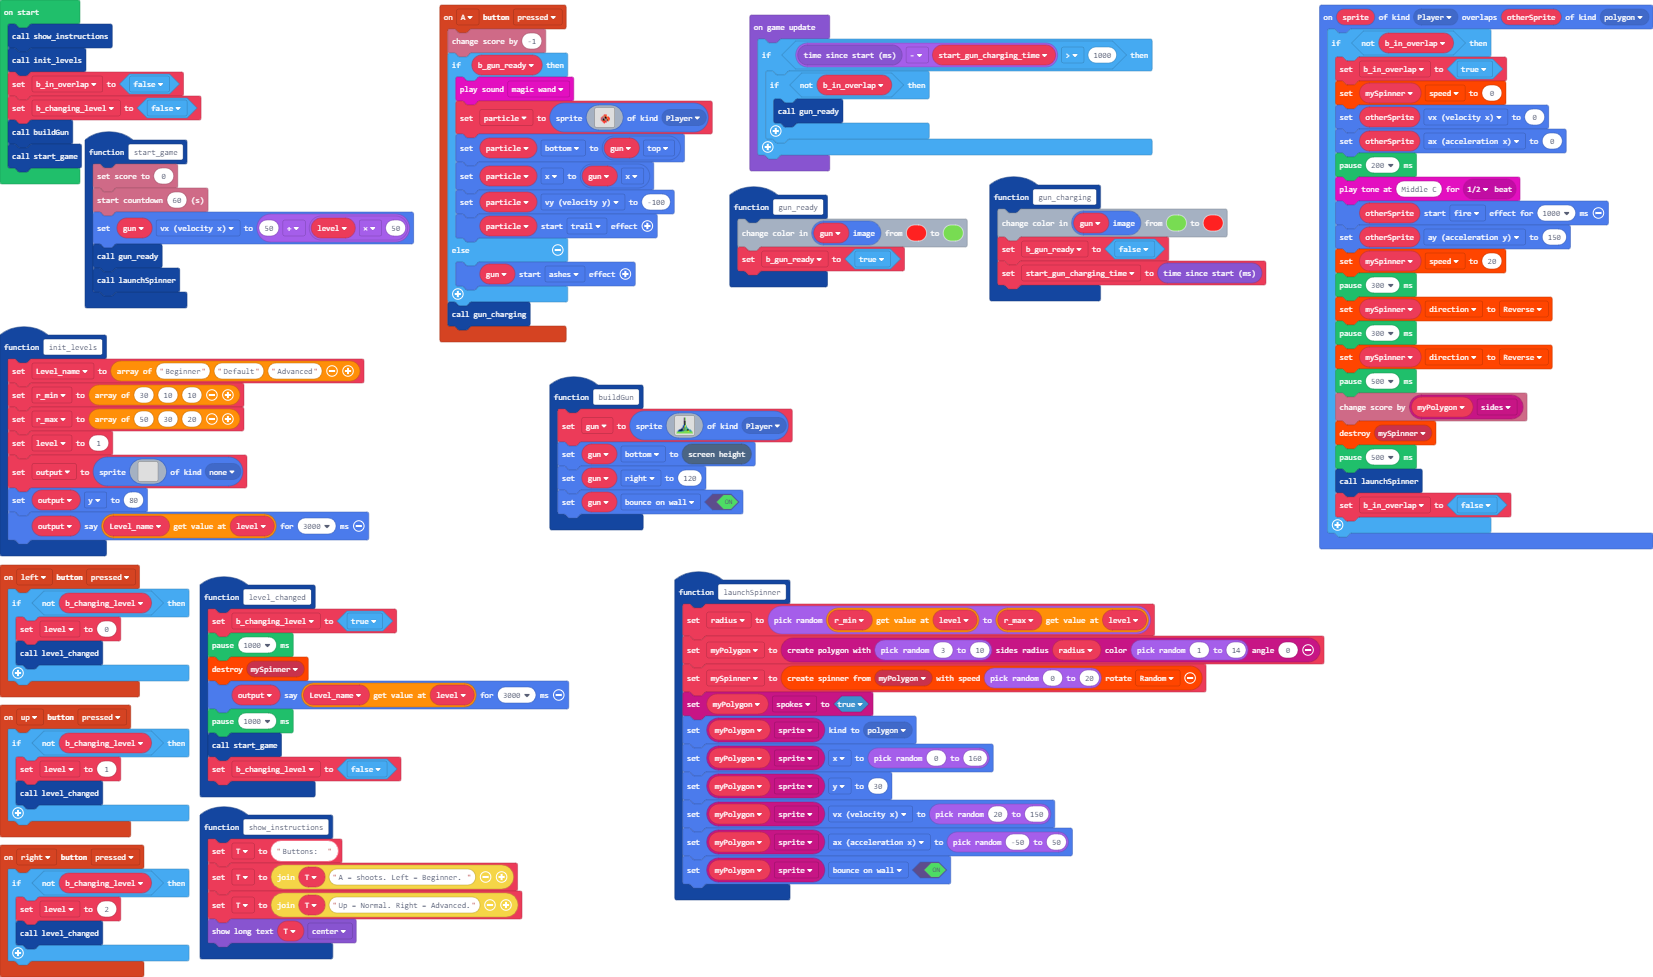
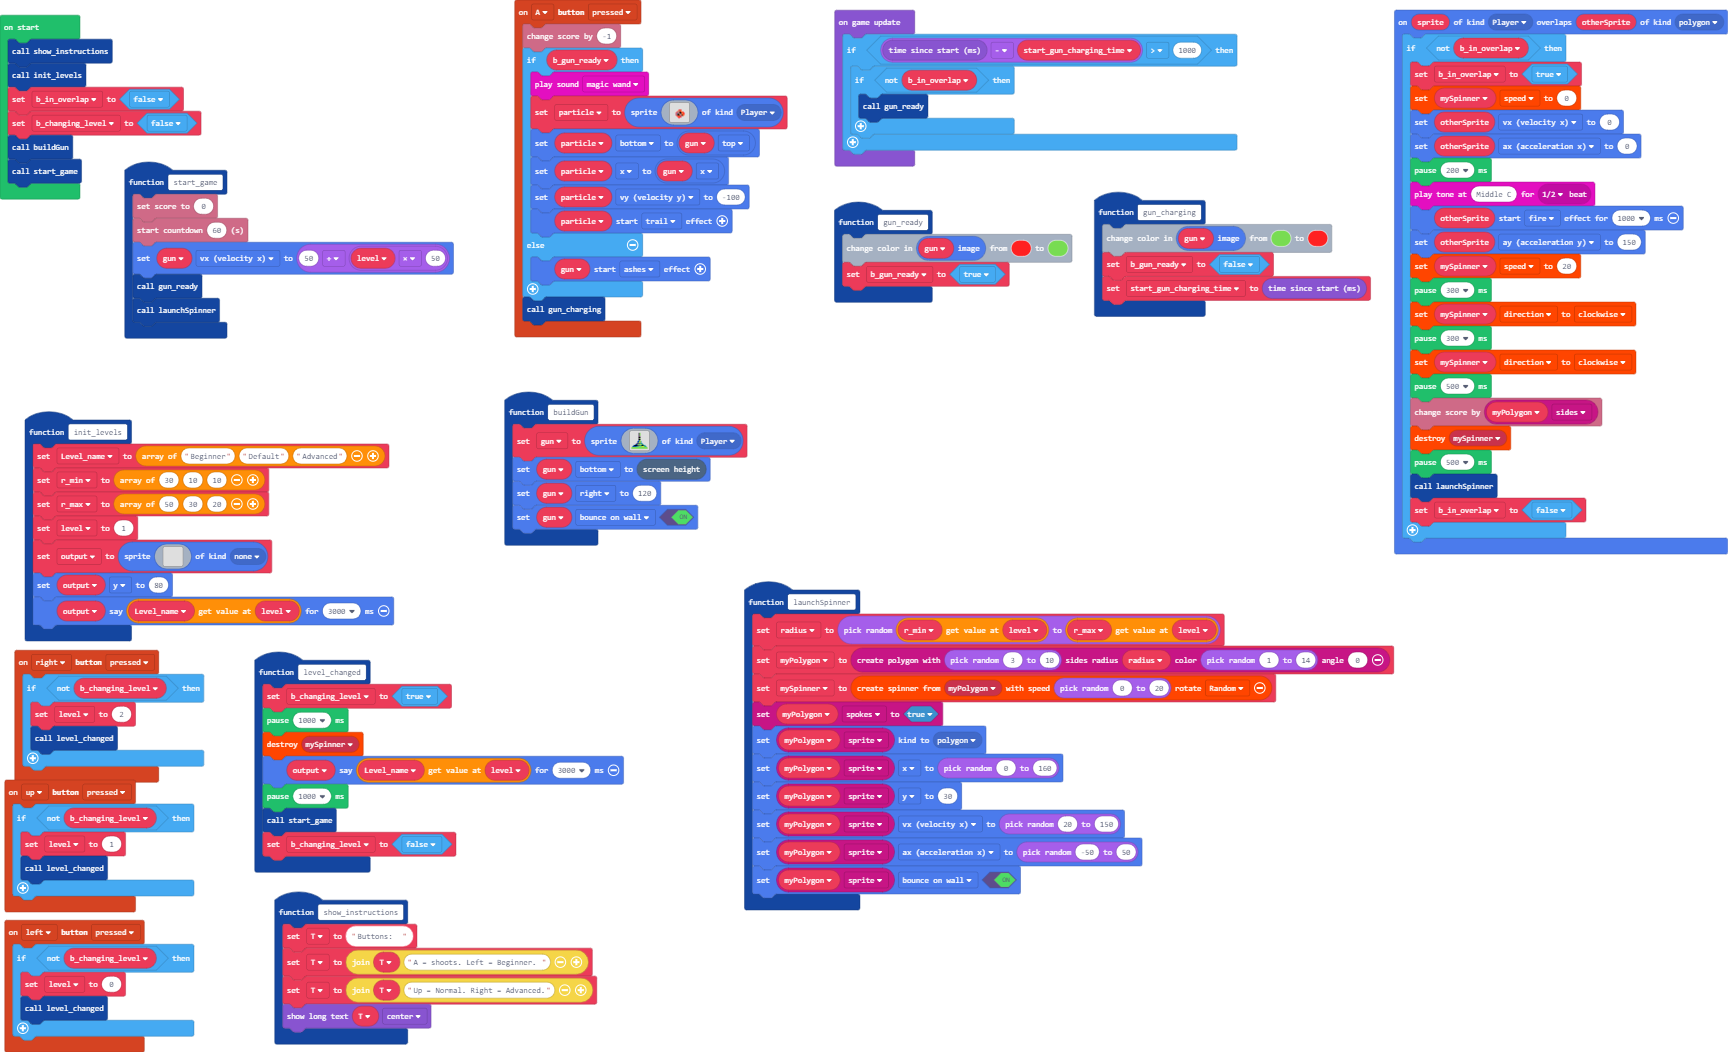
Update main.blocks, main.ts

diff --git a/main.ts b/main.ts
@@ -130,9 +130,9 @@ sprites.onOverlap(SpriteKind.Player, SpriteKind.polygon, function (sprite, other
         otherSprite.ay = 150
         mySpinner.speed = 20
         pause(300)
-        mySpinner.direction = Direction.Reverse
+        mySpinner.direction = Direction.Clockwise
         pause(300)
-        mySpinner.direction = Direction.Reverse
+        mySpinner.direction = Direction.Clockwise
         pause(500)
         info.changeScoreBy(myPolygon.sides)
         spinner.destroySpinner(mySpinner)
